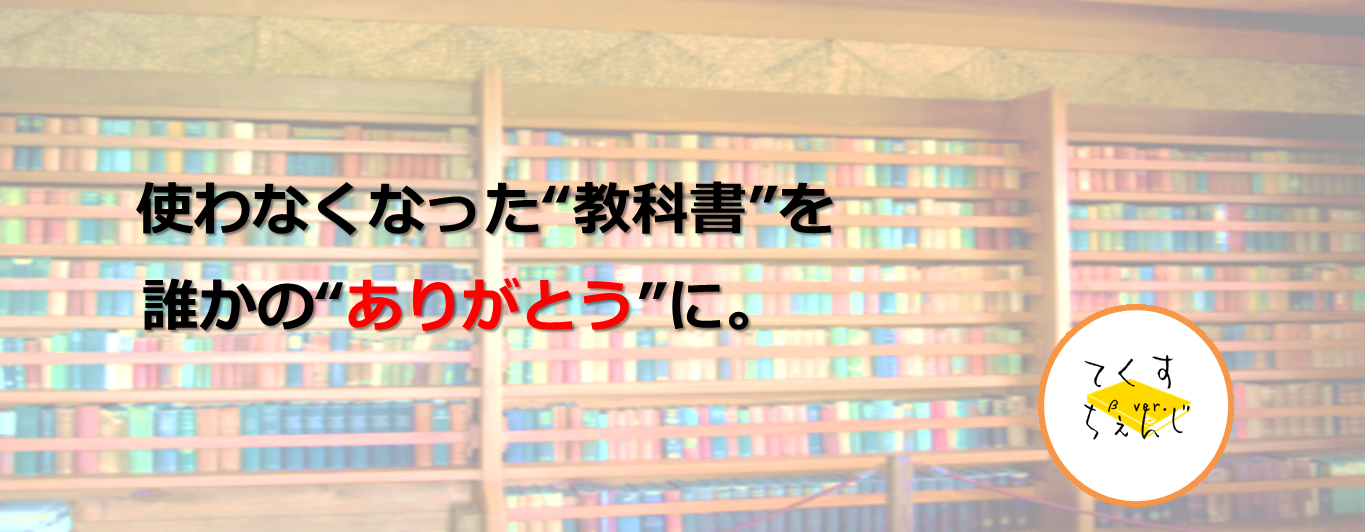
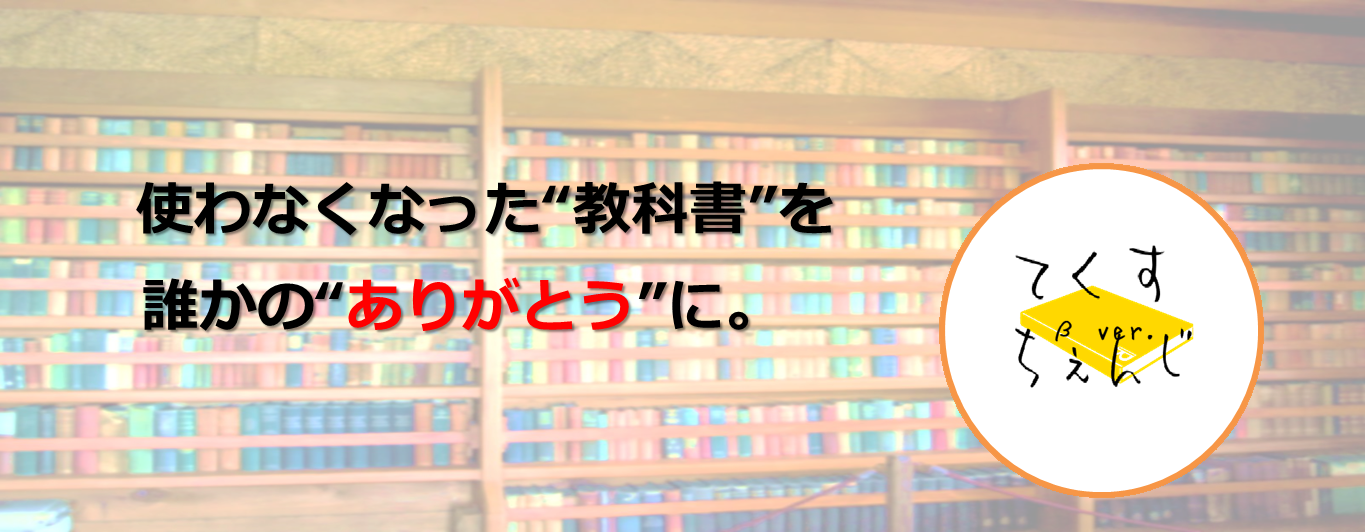
change header img

Changed region(s): [[0.6769, 0.3008, 0.9231, 0.9624]]

diff --git a/themes/freecycle/style.css b/themes/freecycle/style.css
@@ -274,16 +274,24 @@ header{
 	width: 100%;
 	height: auto;
 	background: white;
-	padding: 25px 0 0 0;
+	padding: 25px 0 5px 0;
 	margin: 0;
 }
 
 header #logo img{
-	width: 100%;
-	height: 150px;
+	width: 55%;
+	height: 50px;
 	padding: 0 2px;
 	margin: auto;
 	margin-bottom: -40px;
+	float: left;
+}
+
+header a img#menu_icon{
+	width: 50px;
+	height: 50px;
+	float: right;
+	margin: 0 5px 0 0;
 }
 
 	
@@ -314,23 +322,23 @@ header a:active{
 
 /*ヘッダーイメージ*/
 
-/*.header_img_navi img{
+.header_img_navi img{
 	width:100%;
 	height: auto;
 	margin: 0;
 	padding-left: 2px;
-}*/
+}
 
 /*---------------------------------------------------
 				キャッチコピー
 ------------------------------------------------------*/
 
-/*div.header_copy a img{
-	margin:0 0 -16px 0;
+div#header_copy a img{
+	margin:3px 0 -16px 0;
 	padding: 0;
 	width: 100%;
-	height: 100px;
-}	*/		
+	height: 120px;
+}
 
 
 /* ヘッダーフォーム */
@@ -1059,12 +1067,21 @@ header{
 }
 
 header #logo img{
-	width: 100%;
-	height: 220px;
+	width: 55%;
+	height: 60px;
 	margin: auto;
 	margin-top: 10px;
-	margin-bottom: -40px;
+	float: left;
 }
+
+header a img#menu_icon{
+	width: 60px;
+	height: 60px;
+	float: right;
+	margin: 10px 10px 0 0;
+}
+
+
 
 	
 	
@@ -1095,12 +1112,11 @@ header a:active{
 				キャッチコピー
 ------------------------------------------------------*/
 
-/*div.header_copy a img{
-	margin:0 0 -17px 0;
-	padding: 0;
+div#header_copy a img{
 	width: 100%;
-	height: 130px;
-}*/			
+	height: 150px;
+	margin-bottom: -20px;
+}	
 
 
 
@@ -1766,11 +1782,17 @@ header{
 }
 
 header #logo img{
-	width: 100%;
-	height: 300px;
+	width: 40%;
+	height:80px;
 	margin: auto;
 	margin-bottom: -30px;
+	margin-top: 15px;
 }
+
+header a img#menu_icon{
+	display: none;
+}
+
 
 	
 	
@@ -1801,12 +1823,12 @@ header a:active{
 				キャッチコピー
 ------------------------------------------------------*/
 
-/*div.header_copy a img{
+div#header_copy a img{
 	margin:0 0 3px 0;
 	padding: 0;
 	width: 100%;
-	height: 250px;
-}*/
+	height: 270px;
+}
 
 
 /* ヘッダーフォーム */

diff --git a/themes/freecycle/header.php b/themes/freecycle/header.php
@@ -25,7 +25,11 @@ wp_enqueue_script('freecycleScript');
 		<?php do_action( 'bp_before_header' ); ?>
 
 		<header>
-			<h1 id="logo"><a href="<?php echo home_url(); ?>" title="<?php _ex( 'Home', 'Home page banner link title', 'buddypress' ); ?>"><img src="<?php echo get_stylesheet_directory_uri() ?>/images/texchange_header_20140117.png" alt="ヘッダー" width="700px" height="200px"></a></h1>
+			<div id="header_menu">
+				<h1 id="logo"><a href="<?php echo home_url(); ?>" title="<?php _ex( 'Home', 'Home page banner link title', 'buddypress' ); ?>"><img src="<?php echo get_stylesheet_directory_uri() ?>/images/texchange_header_b.png" alt="ヘッダー" width="100px" height="50px"></a></h1>
+				
+				<a href="<?php echo home_url(); ?>" title="<?php _ex( 'Home', 'Home page banner link title', 'buddypress' ); ?>"><img  id="menu_icon" src="<?php echo get_stylesheet_directory_uri() ?>/images/icon_menu.png" alt="ヘッダー" width="50px" height="50px"></a>
+			</div>
 		</header><!-- header -->
 		
 		
@@ -38,6 +42,10 @@ wp_enqueue_script('freecycleScript');
 							<a class="unread_alert" href="<?php echo bp_loggedin_user_domain() . "messages"; ?>">未読メッセージが<?php echo messages_get_unread_count();?>件あります！</a>
 					<?php 		} 
 						} ?> 
+				</div>
+				
+				<div id="header_copy">
+					<a href="<?php echo home_url() . "/about"; ?>" ><img src="<?php echo get_stylesheet_directory_uri() ?>/images/texchange_header_20140117.png" alt="てくすちぇんじとは？" width="700px" height="200px"></a>
 				</div>
 	
 				<div class="grobal_nav_div">
